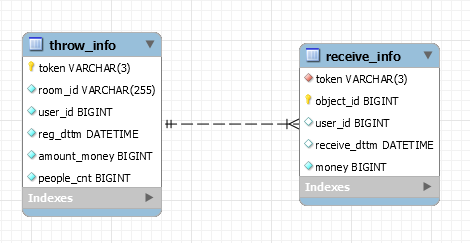
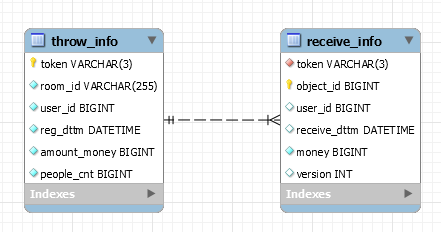
[김남혁] KakaoThrowAPI : 동시성 제어 추가

diff --git a/src/main/java/com/kakaopay/throwaway/service/ThrowServiceImpl.java b/src/main/java/com/kakaopay/throwaway/service/ThrowServiceImpl.java
@@ -20,8 +20,6 @@ import java.util.ArrayList;
 import java.util.List;
 import java.util.Objects;
 
-import static java.lang.Math.min;
-
 @Service
 @Slf4j
 @RequiredArgsConstructor
@@ -31,6 +29,13 @@ public class ThrowServiceImpl implements ThrowService {
     private final ThrowInfoRepository throwInfoRepository;
     private final ReceiveInfoRepository receiveInfoRepository;
 
+    /**
+     * 뿌리기 기능
+     * @param roomId : 방 번호
+     * @param userId : 뿌리는 유저 아이디
+     * @param throwRequest : 뿌리기 요청 [뿌리는 돈 , 받을 수 있는 사람 수]
+     * @return
+     */
     @Transactional
     @Override
     public ThrowEntity throwing(String roomId, long userId, ThrowRequest throwRequest) {
@@ -47,6 +52,13 @@ public class ThrowServiceImpl implements ThrowService {
         return throwEntity;
     }
 
+    /**
+     * 받기 기능
+     * @param roomId : 방 번호
+     * @param userId : 받는 유저의 아이디
+     * @param token : 토큰
+     * @return
+     */
     @Transactional
     @Override
     public ResponseDto receiving(String roomId, long userId, String token) {
@@ -117,16 +129,12 @@ public class ThrowServiceImpl implements ThrowService {
 
     /**
      * 조회 기능
-     * @param userId :
-     * @param token
+     * @param userId : 뿌렸던 유저 아이디
+     * @param token : 토큰 값
      * @return
      */
     @Override
     public ResponseDto retrieving(long userId, String token) {
-        // token 값으로 throw_info 와 receive_info 에서 데이터를 join 해서 가져온다
-        // 주의할 점은 뿌린 사람 자신만이 조회할 수 있음.
-        // 조회하는 사람이 뿌린사람 본인이 아니거나, token에 해당되는 뿌리기 건이 없다면 실패응답
-
         // 현재 상태에 해당되는 변수
         RetrieveDto retrieveDto;
         ArrayList<RetrieveInfoDto> receiverInfoList = new ArrayList<>();

diff --git a/src/main/java/com/kakaopay/throwaway/entity/ReceiveEntity.java b/src/main/java/com/kakaopay/throwaway/entity/ReceiveEntity.java
@@ -3,16 +3,14 @@ package com.kakaopay.throwaway.entity;
 import lombok.*;
 
 import javax.persistence.*;
-import java.io.Serializable;
 import java.time.LocalDateTime;
 
 @Getter
 @Entity
+@RequiredArgsConstructor
 @NoArgsConstructor
 @Table(name= "receive_info")
-public class ReceiveEntity implements Serializable {
-
-    private static final long serialVersionUID = 6383807555985579131L;
+public class ReceiveEntity {
 
     @Id
     @GeneratedValue
@@ -36,8 +34,14 @@ public class ReceiveEntity implements Serializable {
     @Column(name = "receive_dttm")
     private LocalDateTime dateTime;
 
+    // 동시성 제어를 위한 version
+    @Version
+    @Column(name = "version")
+    private int version;
+
     public ReceiveEntity(String token, long l) {
         this.token = token;
         this.amount = l;
     }
+
 }

diff --git a/src/main/java/com/kakaopay/throwaway/entity/ThrowEntity.java b/src/main/java/com/kakaopay/throwaway/entity/ThrowEntity.java
@@ -5,20 +5,18 @@ import lombok.NoArgsConstructor;
 import lombok.NonNull;
 import lombok.RequiredArgsConstructor;
 
-import javax.persistence.*;
-import java.awt.*;
-import java.io.Serializable;
+import javax.persistence.Column;
+import javax.persistence.Entity;
+import javax.persistence.Id;
+import javax.persistence.Table;
 import java.time.LocalDateTime;
-import java.util.List;
 
 @Data
 @Entity
 @RequiredArgsConstructor
 @NoArgsConstructor
 @Table(name= "throw_info")
-public class ThrowEntity implements Serializable {
-
-    private static final long serialVersionUID = -1907520853136143564L;
+public class ThrowEntity{
 
     @Id
     @NonNull

diff --git a/src/main/java/com/kakaopay/throwaway/repository/ReceiveInfoRepository.java b/src/main/java/com/kakaopay/throwaway/repository/ReceiveInfoRepository.java
@@ -2,15 +2,9 @@ package com.kakaopay.throwaway.repository;
 
 import com.kakaopay.throwaway.entity.ReceiveEntity;
 import org.springframework.data.jpa.repository.JpaRepository;
-import org.springframework.transaction.annotation.Transactional;
-
 import java.util.List;
 
 public interface ReceiveInfoRepository extends JpaRepository<ReceiveEntity, Long> {
     List<ReceiveEntity> findByToken(String token);
     ReceiveEntity findByTokenAndUserId(String token, long userId);
-
-    // for Test
-    @Transactional
-    void deleteAllByToken(String token);
 }

diff --git a/src/main/java/com/kakaopay/throwaway/repository/ThrowInfoRepository.java b/src/main/java/com/kakaopay/throwaway/repository/ThrowInfoRepository.java
@@ -2,12 +2,7 @@ package com.kakaopay.throwaway.repository;
 
 import com.kakaopay.throwaway.entity.ThrowEntity;
 import org.springframework.data.jpa.repository.JpaRepository;
-import org.springframework.transaction.annotation.Transactional;
 
 public interface ThrowInfoRepository extends JpaRepository<ThrowEntity, String> {
     ThrowEntity findOneByToken(String token);
-
-    // for test
-    @Transactional
-    void deleteAllByToken(String abc);
 }

diff --git a/src/test/java/com/kakaopay/throwaway/ReceivingTest.java b/src/test/java/com/kakaopay/throwaway/ReceivingTest.java
@@ -38,7 +38,7 @@ import static org.springframework.test.web.servlet.result.MockMvcResultHandlers.
 @AutoConfigureTestDatabase(replace = AutoConfigureTestDatabase.Replace.NONE)
 @ExtendWith(SpringExtension.class)
 @DisplayName("받기 기능 테스트")
-public class ReceivingTest{
+public class ReceivingTest {
 
     @Autowired
     WebApplicationContext webApplicationContext;

diff --git a/src/main/java/com/kakaopay/throwaway/staticcode/ResponseCodes.java b/src/main/java/com/kakaopay/throwaway/staticcode/ResponseCodes.java
@@ -2,7 +2,7 @@ package com.kakaopay.throwaway.staticcode;
 
 public enum ResponseCodes {
     S200("200", "정상처리"),
-    E101("101", "생성되지 않았거나 이미 종료된 뿌리기"),
+    E101("101", "이미 종료된 뿌리기"),
     E102("102", "뿌린 사용자와 같은 사용자"),
     E103("103", "시간 초과"),
     E104("104", "잘못된 방번호"),

diff --git a/src/main/java/com/kakaopay/throwaway/service/ThrowService.java b/src/main/java/com/kakaopay/throwaway/service/ThrowService.java
@@ -3,7 +3,6 @@ package com.kakaopay.throwaway.service;
 import com.kakaopay.throwaway.controller.ThrowRequest;
 import com.kakaopay.throwaway.dto.ResponseDto;
 import com.kakaopay.throwaway.entity.ThrowEntity;
-import lombok.RequiredArgsConstructor;
 
 public interface ThrowService {
 

diff --git a/src/main/java/com/kakaopay/throwaway/dto/ResponseDto.java b/src/main/java/com/kakaopay/throwaway/dto/ResponseDto.java
@@ -1,7 +1,6 @@
 package com.kakaopay.throwaway.dto;
 
 import lombok.Data;
-import lombok.RequiredArgsConstructor;
 
 import java.io.Serializable;
 

diff --git a/README.md b/README.md
@@ -74,6 +74,7 @@ create table receive_info
     user_id      bigint     null,
     receive_dttm datetime   null,
     money        bigint     not null,
+    version      int        null,
     constraint receive_info_throwinfo_token_fk
         foreign key (token) references throw_info (token)
 );
